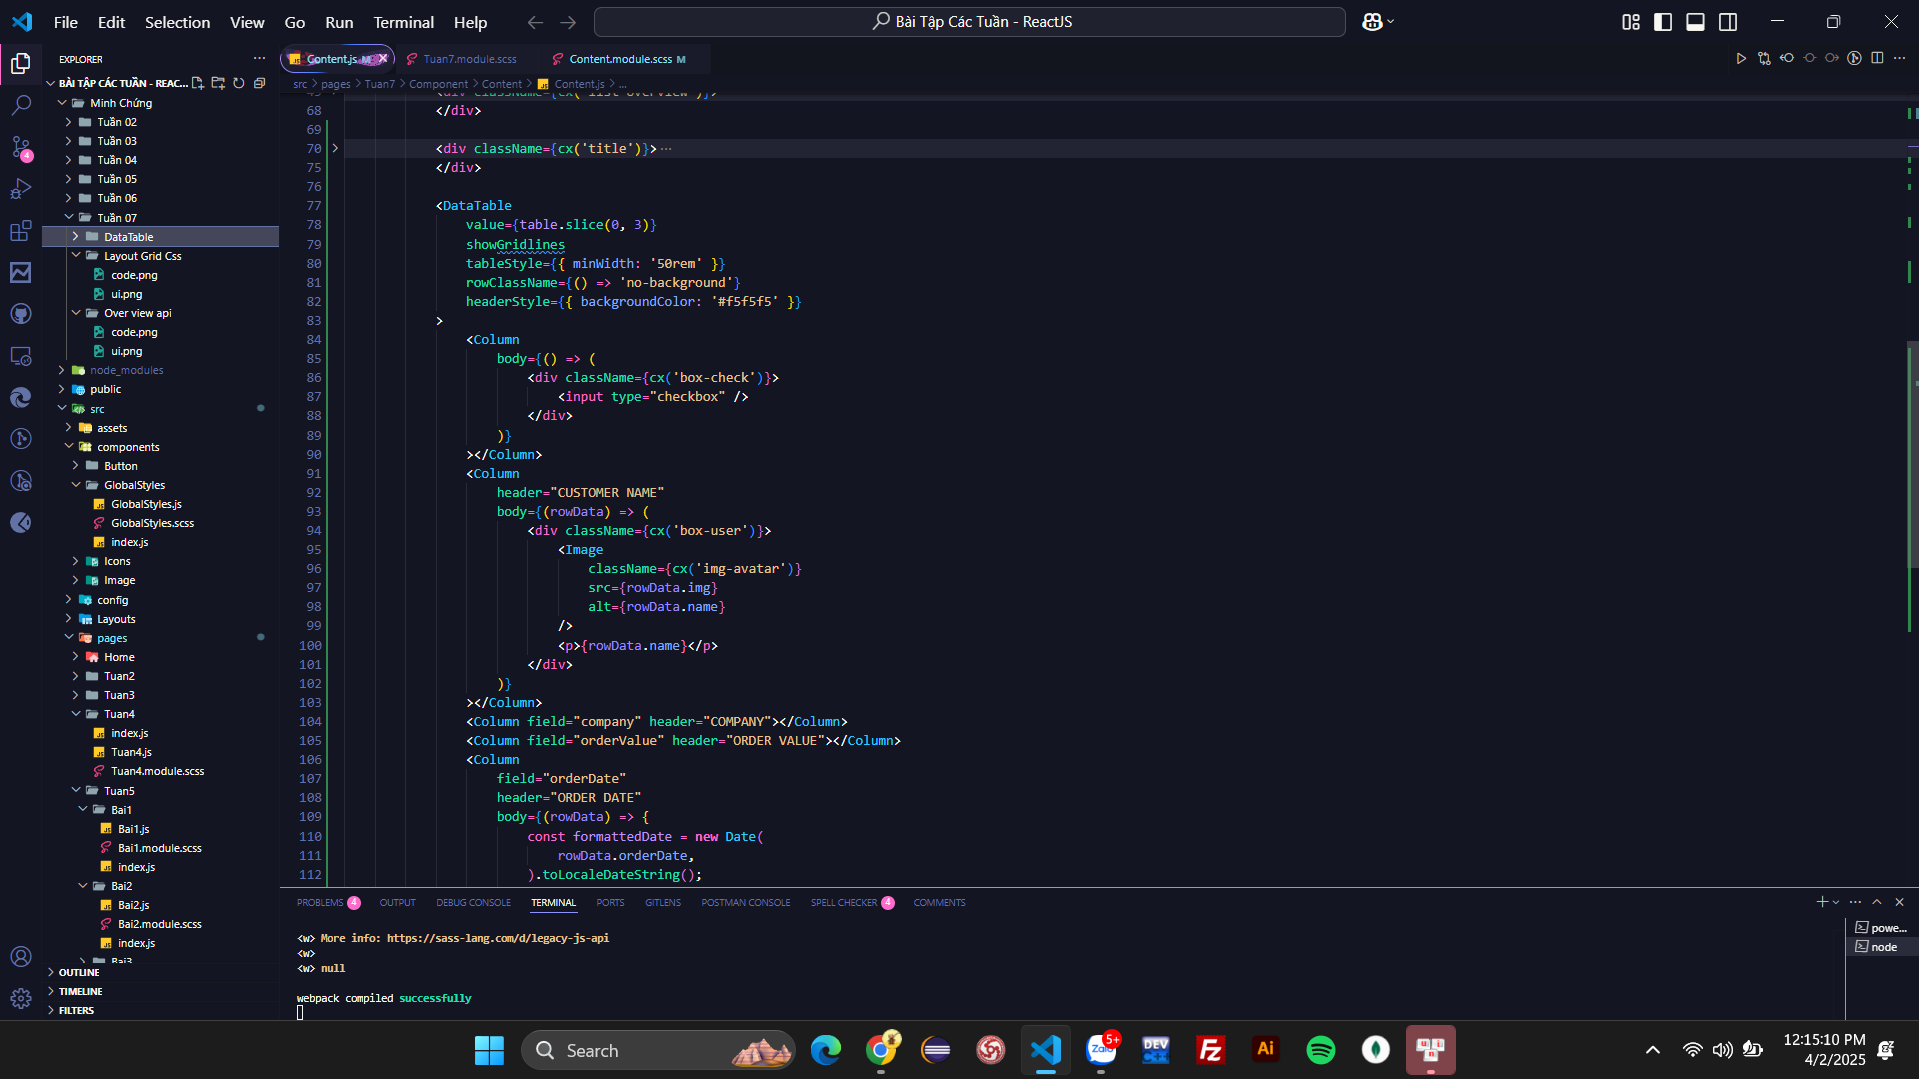
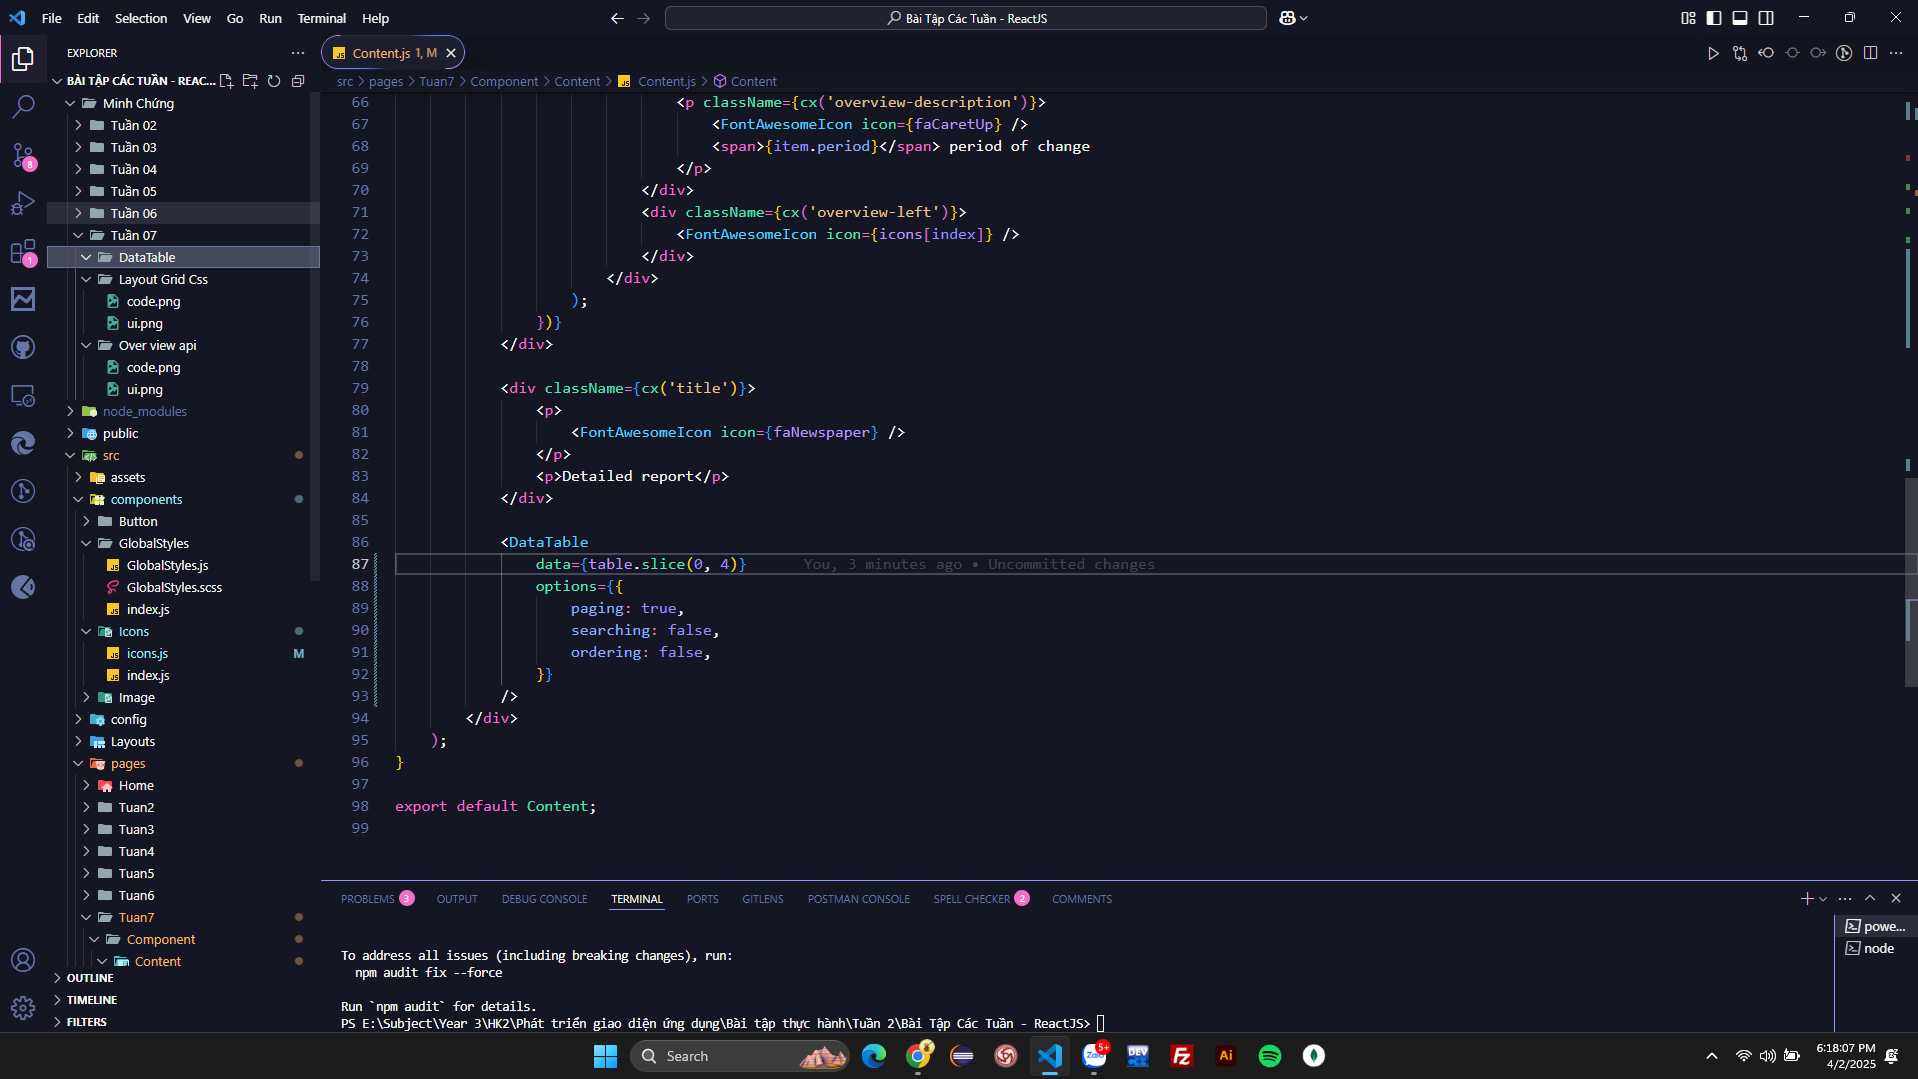
3. Fix - Thay đổi thư viện datatables.net-react datatables.net-dt (Đã hoàn thành)

diff --git a/src/pages/Tuan7/Component/Content/Content.js b/src/pages/Tuan7/Component/Content/Content.js
@@ -1,7 +1,7 @@
 import classNames from 'classnames/bind';
-import { useEffect, useState } from 'react';
-import { DataTable } from 'primereact/datatable';
-import { Column } from 'primereact/column';
+import React, { useEffect, useState } from 'react';
+import DataTable from 'datatables.net-react';
+import DT from 'datatables.net-dt';
 
 import styles from './Content.module.scss';
 import { FontAwesomeIcon } from '@fortawesome/react-fontawesome';
@@ -9,20 +9,38 @@ import {
     faCaretUp,
     faCartShopping,
     faDollar,
-    faEdit,
     faLayerGroup,
     faNewspaper,
     faUser,
 } from '@fortawesome/free-solid-svg-icons';
+
 import Image from '~/components/Image';
 
 const cx = classNames.bind(styles);
+DataTable.use(DT);
 
 function Content() {
     const [overview, setOverview] = useState([]);
     const [table, setTable] = useState([]);
+    console.log(table.slice(0, 1));
 
-    console.table(overview);
+    useEffect(() => {
+        fetch('https://67eca9a6aa794fb3222e5fbe.mockapi.io/Overview')
+            .then((res) => res.json())
+            .then((data) => setOverview(data));
+
+        fetch('https://67eca9a6aa794fb3222e5fbe.mockapi.io/user')
+            .then((res) => res.json())
+            .then((data) => {
+                const statuses = ['New', 'In-progress', 'Completed'];
+                data.forEach((item) => {
+                    item.status =
+                        statuses[Math.floor(Math.random() * statuses.length)];
+                });
+
+                setTable(data);
+            });
+    }, []);
 
     return (
         <div className={cx('content')}>
@@ -42,7 +60,8 @@ function Content() {
                                     {item.title}
                                 </p>
                                 <p className={cx('overview-price')}>
-                                    ${item.price}
+                                    {index !== 2 ? <span>$</span> : null}
+                                    {item.price}
                                 </p>
                                 <p className={cx('overview-description')}>
                                     <FontAwesomeIcon icon={faCaretUp} />
@@ -65,53 +84,13 @@ function Content() {
             </div>
 
             <DataTable
-                value={table.slice(0, 3)}
-                showGridlines
-                tableStyle={{ minWidth: '50rem' }}
-                rowClassName={() => 'no-background'}
-                headerStyle={{ backgroundColor: '#f5f5f5' }}
-            >
-                <Column
-                    body={() => (
-                        <div className={cx('box-check')}>
-                            <input type="checkbox" />
-                        </div>
-                    )}
-                ></Column>
-                <Column
-                    header="CUSTOMER NAME"
-                    body={(rowData) => (
-                        <div className={cx('box-user')}>
-                            <Image
-                                className={cx('img-avatar')}
-                                src={rowData.img}
-                                alt={rowData.name}
-                            />
-                            <p>{rowData.name}</p>
-                        </div>
-                    )}
-                ></Column>
-                <Column field="company" header="COMPANY"></Column>
-                <Column field="orderValue" header="ORDER VALUE"></Column>
-                <Column
-                    field="orderDate"
-                    header="ORDER DATE"
-                    body={(rowData) => {
-                        const formattedDate = new Date(
-                            rowData.orderDate,
-                        ).toLocaleDateString();
-                        return <span>{formattedDate}</span>;
-                    }}
-                ></Column>
-
-                <Column
-                    body={() => (
-                        <div className={cx('box-check')}>
-                            <FontAwesomeIcon icon={faEdit} />{' '}
-                        </div>
-                    )}
-                ></Column>
-            </DataTable>
+                data={table.slice(0, 4)}
+                options={{
+                    paging: true,
+                    searching: false,
+                    ordering: false,
+                }}
+            />
         </div>
     );
 }

diff --git a/src/pages/Tuan7/Component/Content/Content.module.scss b/src/pages/Tuan7/Component/Content/Content.module.scss
@@ -82,19 +82,19 @@
     }
 
     > div:not(:first-child) {
-        background-color: rgb(220, 237, 245);
+        background-color: #eff6ff;
 
         .overview-left {
             width: 35px;
             height: 35px;
-            border: 1px solid blue;
+            border: 1px solid rgb(93 188 255);
             display: flex;
             justify-content: center;
             align-items: center;
             border-radius: 4px;
             svg {
                 padding: 8px;
-                color: blue;
+                color: rgb(93 188 255);
             }
         }
     }
@@ -121,4 +121,58 @@
     display: flex;
     justify-content: center;
     align-items: center;
+}
+
+tr > th,
+tr > td {
+    border: none;
+}
+
+tr {
+    border: none;
+}
+
+table {
+    border: 1px solid #ccc;
+}
+
+th:first-child {
+    display: flex;
+    justify-content: center;
+    align-items: center;
+    height: 40.4px;
+}
+
+table tr:nth-child(even) {
+    background-color: white;
+}
+
+th span {
+    color: #626262;
+    font-size: 15px;
+}
+
+.date {
+    color: #ccc;
+}
+
+.status-new {
+    background-color: #f3f2f2;
+    color: rgb(93 188 255);
+    padding: 2px 8px;
+    border-radius: 25px;
+}
+
+.status-in-progress {
+    background-color: #f8f6d8;
+    color: rgb(159, 161, 43);
+    padding: 2px 8px;
+    border-radius: 25px;
+}
+
+.status-completed {
+    background-color: #ccf7de;
+    color: rgb(66, 139, 91);
+    padding: 2px 8px;
+    border-radius: 25px;
 }

diff --git a/src/components/Icons/icons.js b/src/components/Icons/icons.js
@@ -40,8 +40,8 @@ export const Google = ({ width = '2.4rem', height = '2.4rem', className }) => (
 );
 
 export const Facebook = ({
-    width = '2/4rem',
-    height = '2/4rem',
+    width = '2.4rem',
+    height = '2.4rem',
     className,
 }) => (
     <svg
